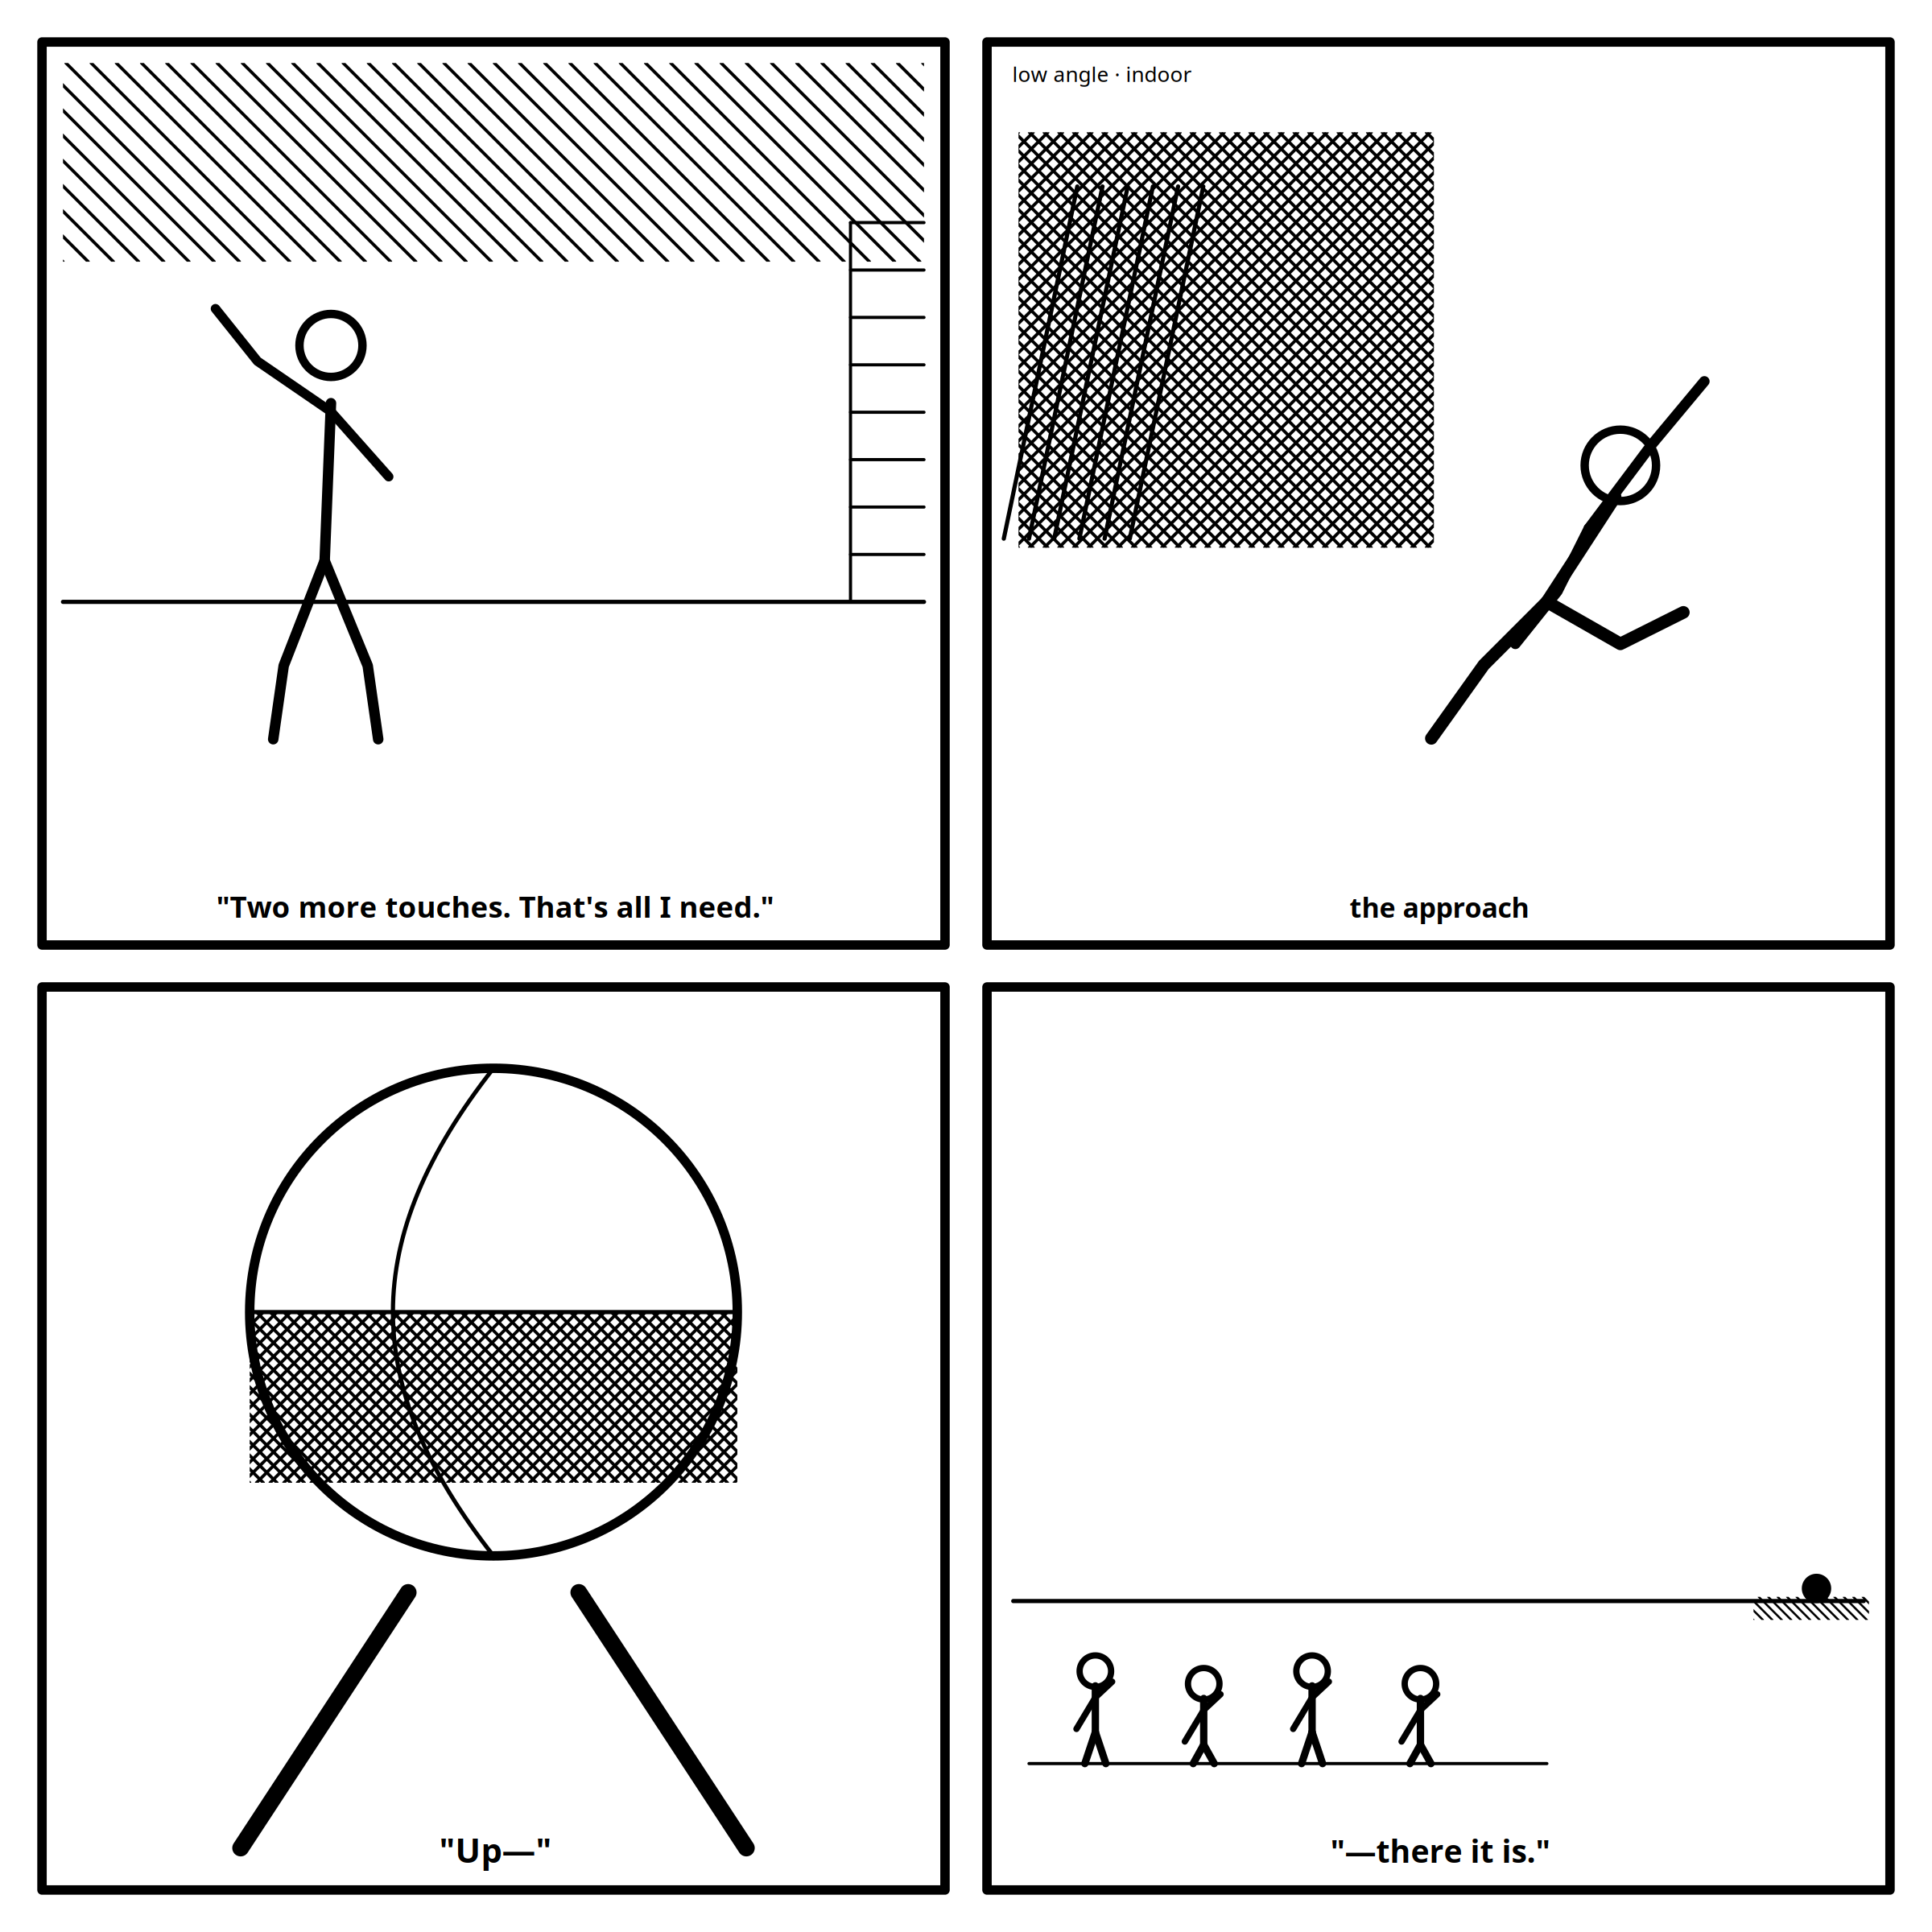
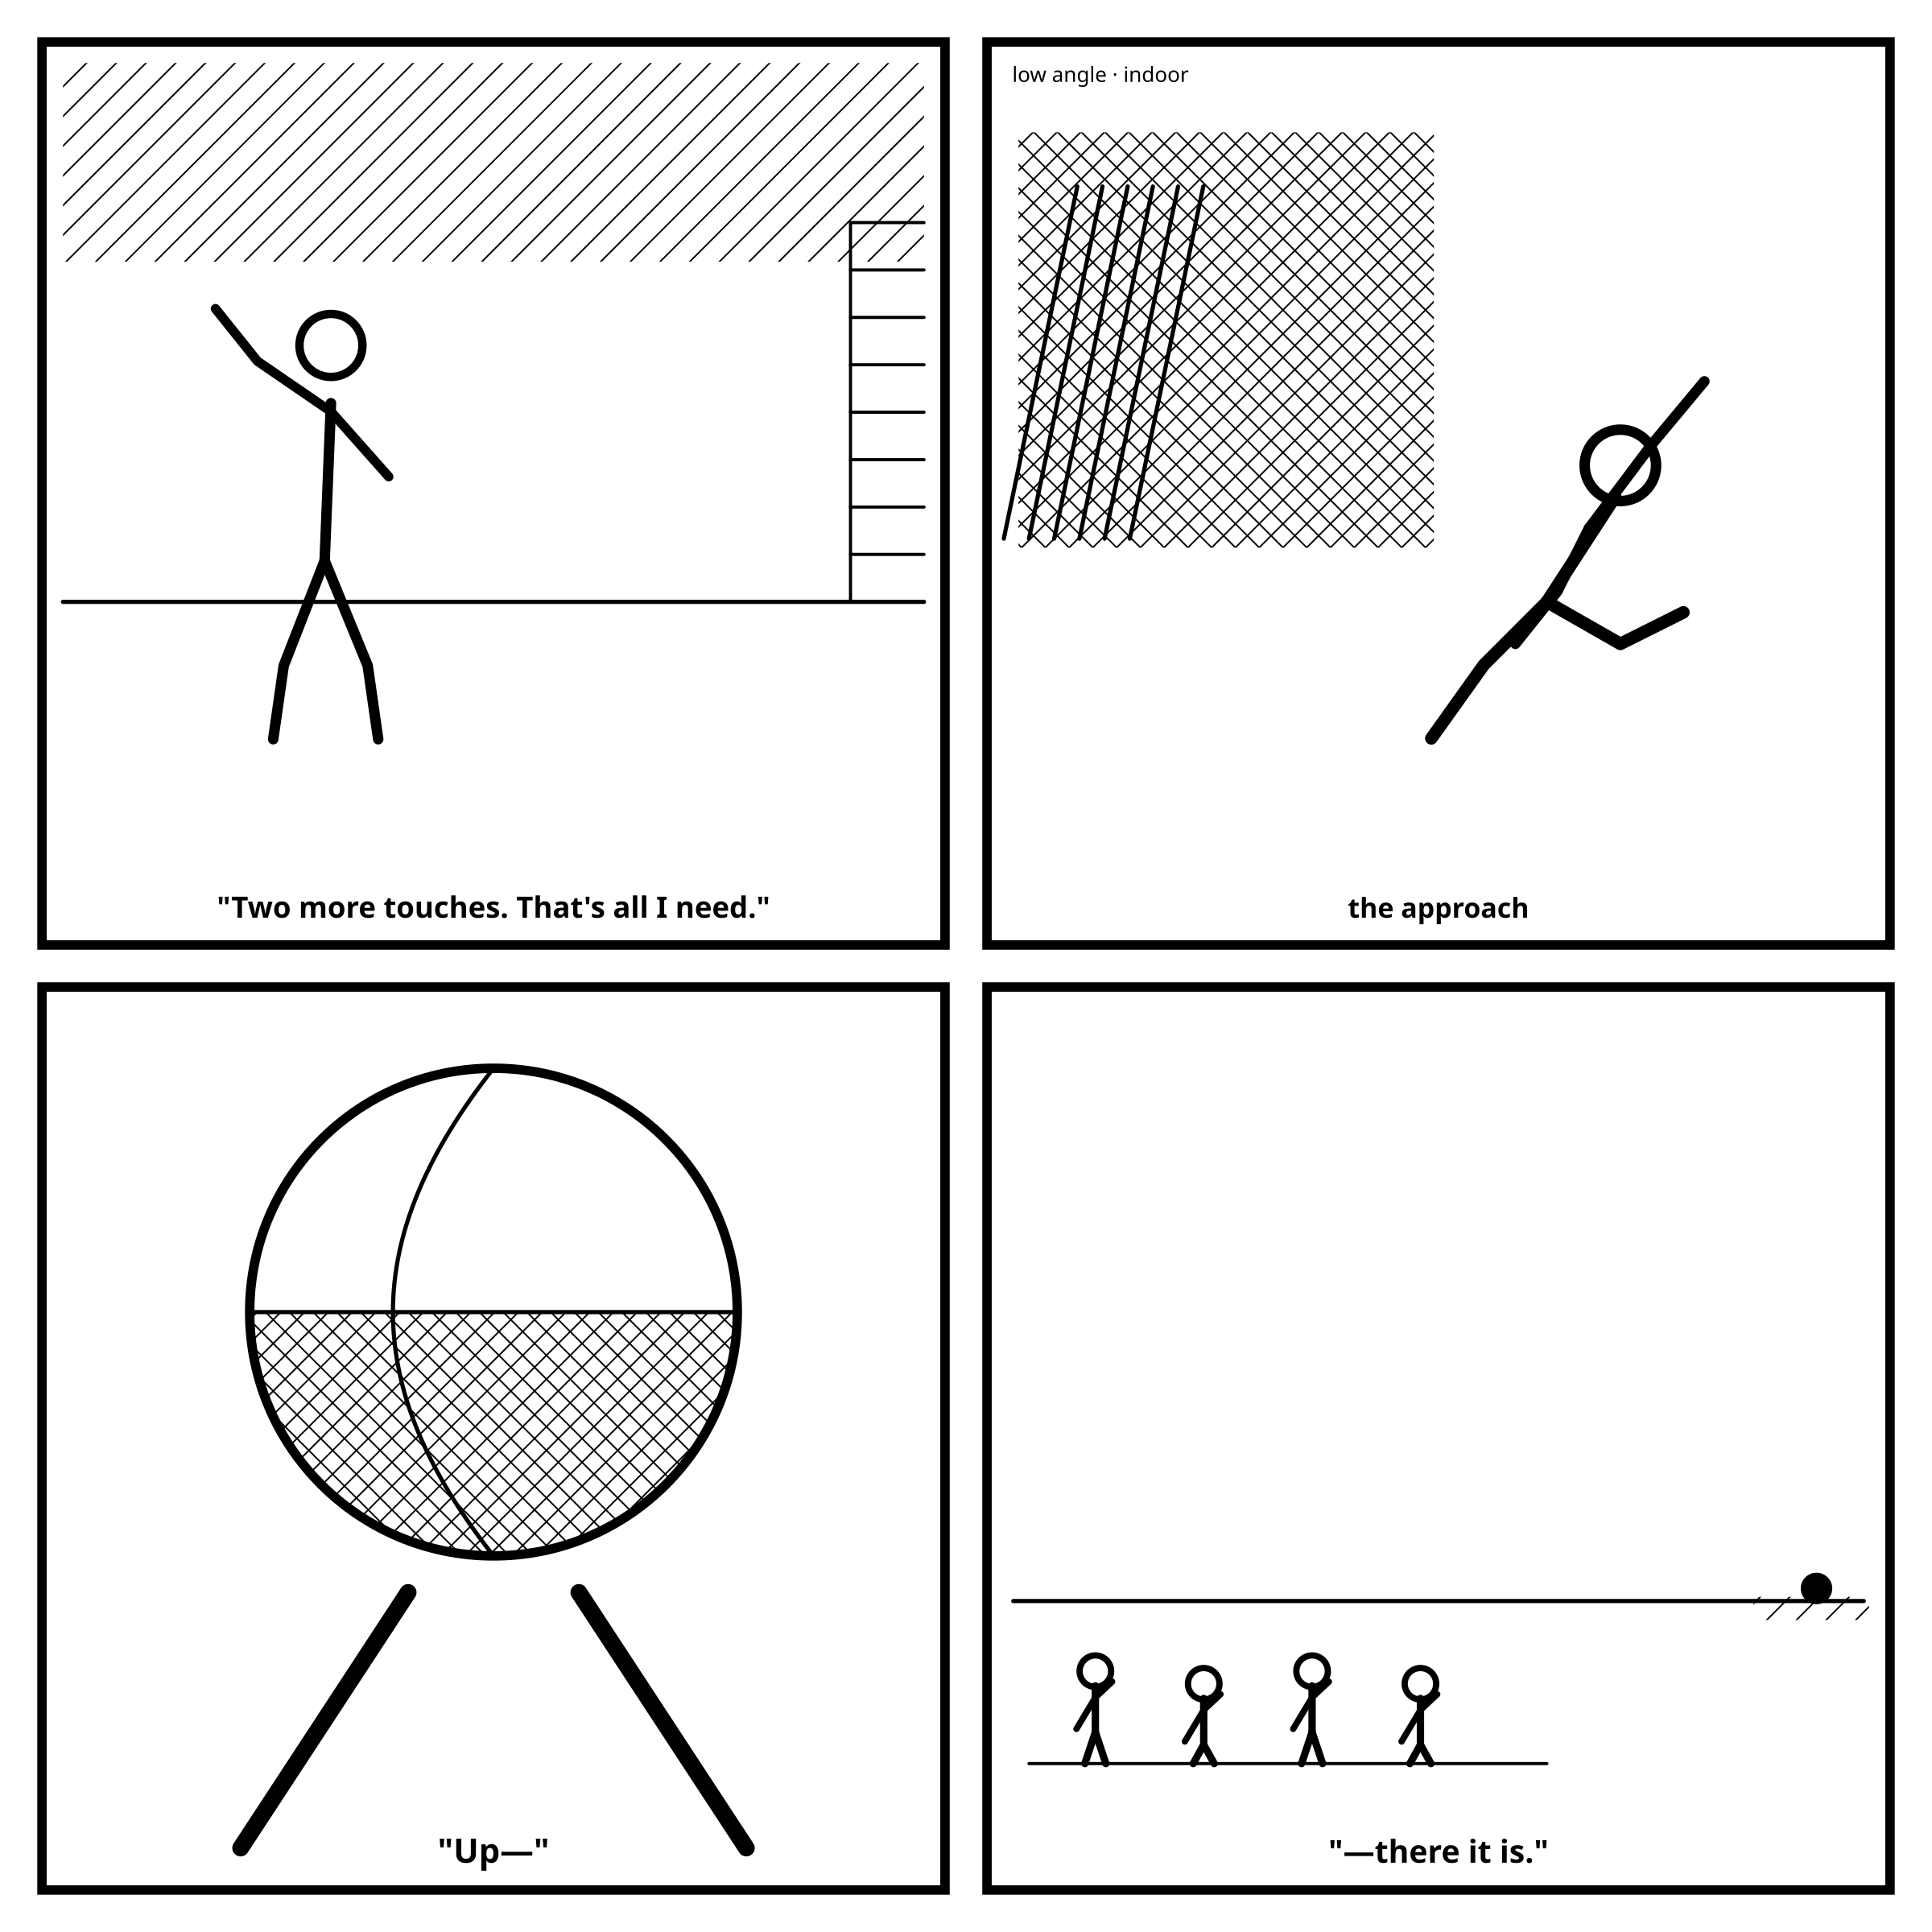
Rebuild Hayaku and Boba Side art as hand-authored SVG via Inkscape
Both pieces were previously raster-only (pycairo, ImageMagick -draw).
Rewrote each as real SVG source and rasterized via Inkscape's CLI
(--export-png-antialias=3, Gray_8 for Hayaku's pure B&W) instead of
the prior renderers -- genuinely crisper linework and evenly-tiled
hatching, since rasterization happens once from vector geometry at
final resolution rather than a fixed-pixel canvas upscale.

Hayaku (Issue 9): hatching built as reusable SVG <pattern> defs; the
foreshortened ball's shadowed half uses a <clipPath> instead of manual
line-by-line hatching.

Boba Side (Issue 8): fixed the figure's legs, which came out as a
broken notch on the first geometry pass; leaned into the gag's own
"scatter-plot-chart figure" pun with irregular scattered dots in the
paper's taro-ink accent color instead of a flat silhouette fill.

Kept both .svg sources alongside the delivered .png in issues/ for
future touch-ups. Updated both bylines, which still credited the old
renderers (ImageMagick / SkiaSharp). Reprinted issue-8.pdf and
issue-9.pdf; both still land at exactly 2 pages.

Claude-Session: https://claude.ai/code/session_01TcPUHadW3arMtEUa4ZUnm4

diff --git a/issues/issue-8.html b/issues/issue-8.html
@@ -503,7 +503,7 @@
     <div style="grid-column: span 3; text-align: center;">
       <p class="kicker" style="text-align: center;">The Boba Side</p>
       <img src="boba-issue8.png" alt="The Boba Side: a silhouetted scatter-plot-chart figure standing in the dashed footprint of a vanished advertisement, papers settling near its feet." style="width: 100%; max-width: 40mm; margin: 0 auto; display: block;">
-      <p class="byline-text" style="text-align: center; margin-top: 1.5mm;">The Boba Side &mdash; original anime/manga-style gag, rendered via ImageMagick</p>
+      <p class="byline-text" style="text-align: center; margin-top: 1.5mm;">The Boba Side &mdash; original anime/manga-style gag, hand-authored SVG rendered via Inkscape</p>
     </div>
   </div>
 

diff --git a/issues/issue-9.html b/issues/issue-9.html
@@ -458,7 +458,7 @@
     <div style="grid-column: span 3; text-align: center;">
       <p class="kicker" style="text-align: center;">Hayaku &middot; Debut</p>
       <img src="hayaku-issue9-debut.png" alt="Hayaku, four-panel senkotsu-style strip: Rin calling the rotation at the net under flat gym light; Tomoya's low-angle forced-perspective approach with crosshatched motion lines; an extreme-foreshortened set with the ball filling the frame; the bench half-risen as the point lands on the far side." style="width: 100%; max-width: 75mm; margin: 0 auto; display: block;">
-      <p class="byline-text" style="text-align: center; margin-top: 1.5mm;">Hayaku &mdash; an original senkotsu-style strip, Bubble Tea News's new syndicated cartoon slot, rendered via SkiaSharp</p>
+      <p class="byline-text" style="text-align: center; margin-top: 1.5mm;">Hayaku &mdash; an original senkotsu-style strip, Bubble Tea News's new syndicated cartoon slot, hand-authored SVG rendered via Inkscape</p>
     </div>
   </div>
 